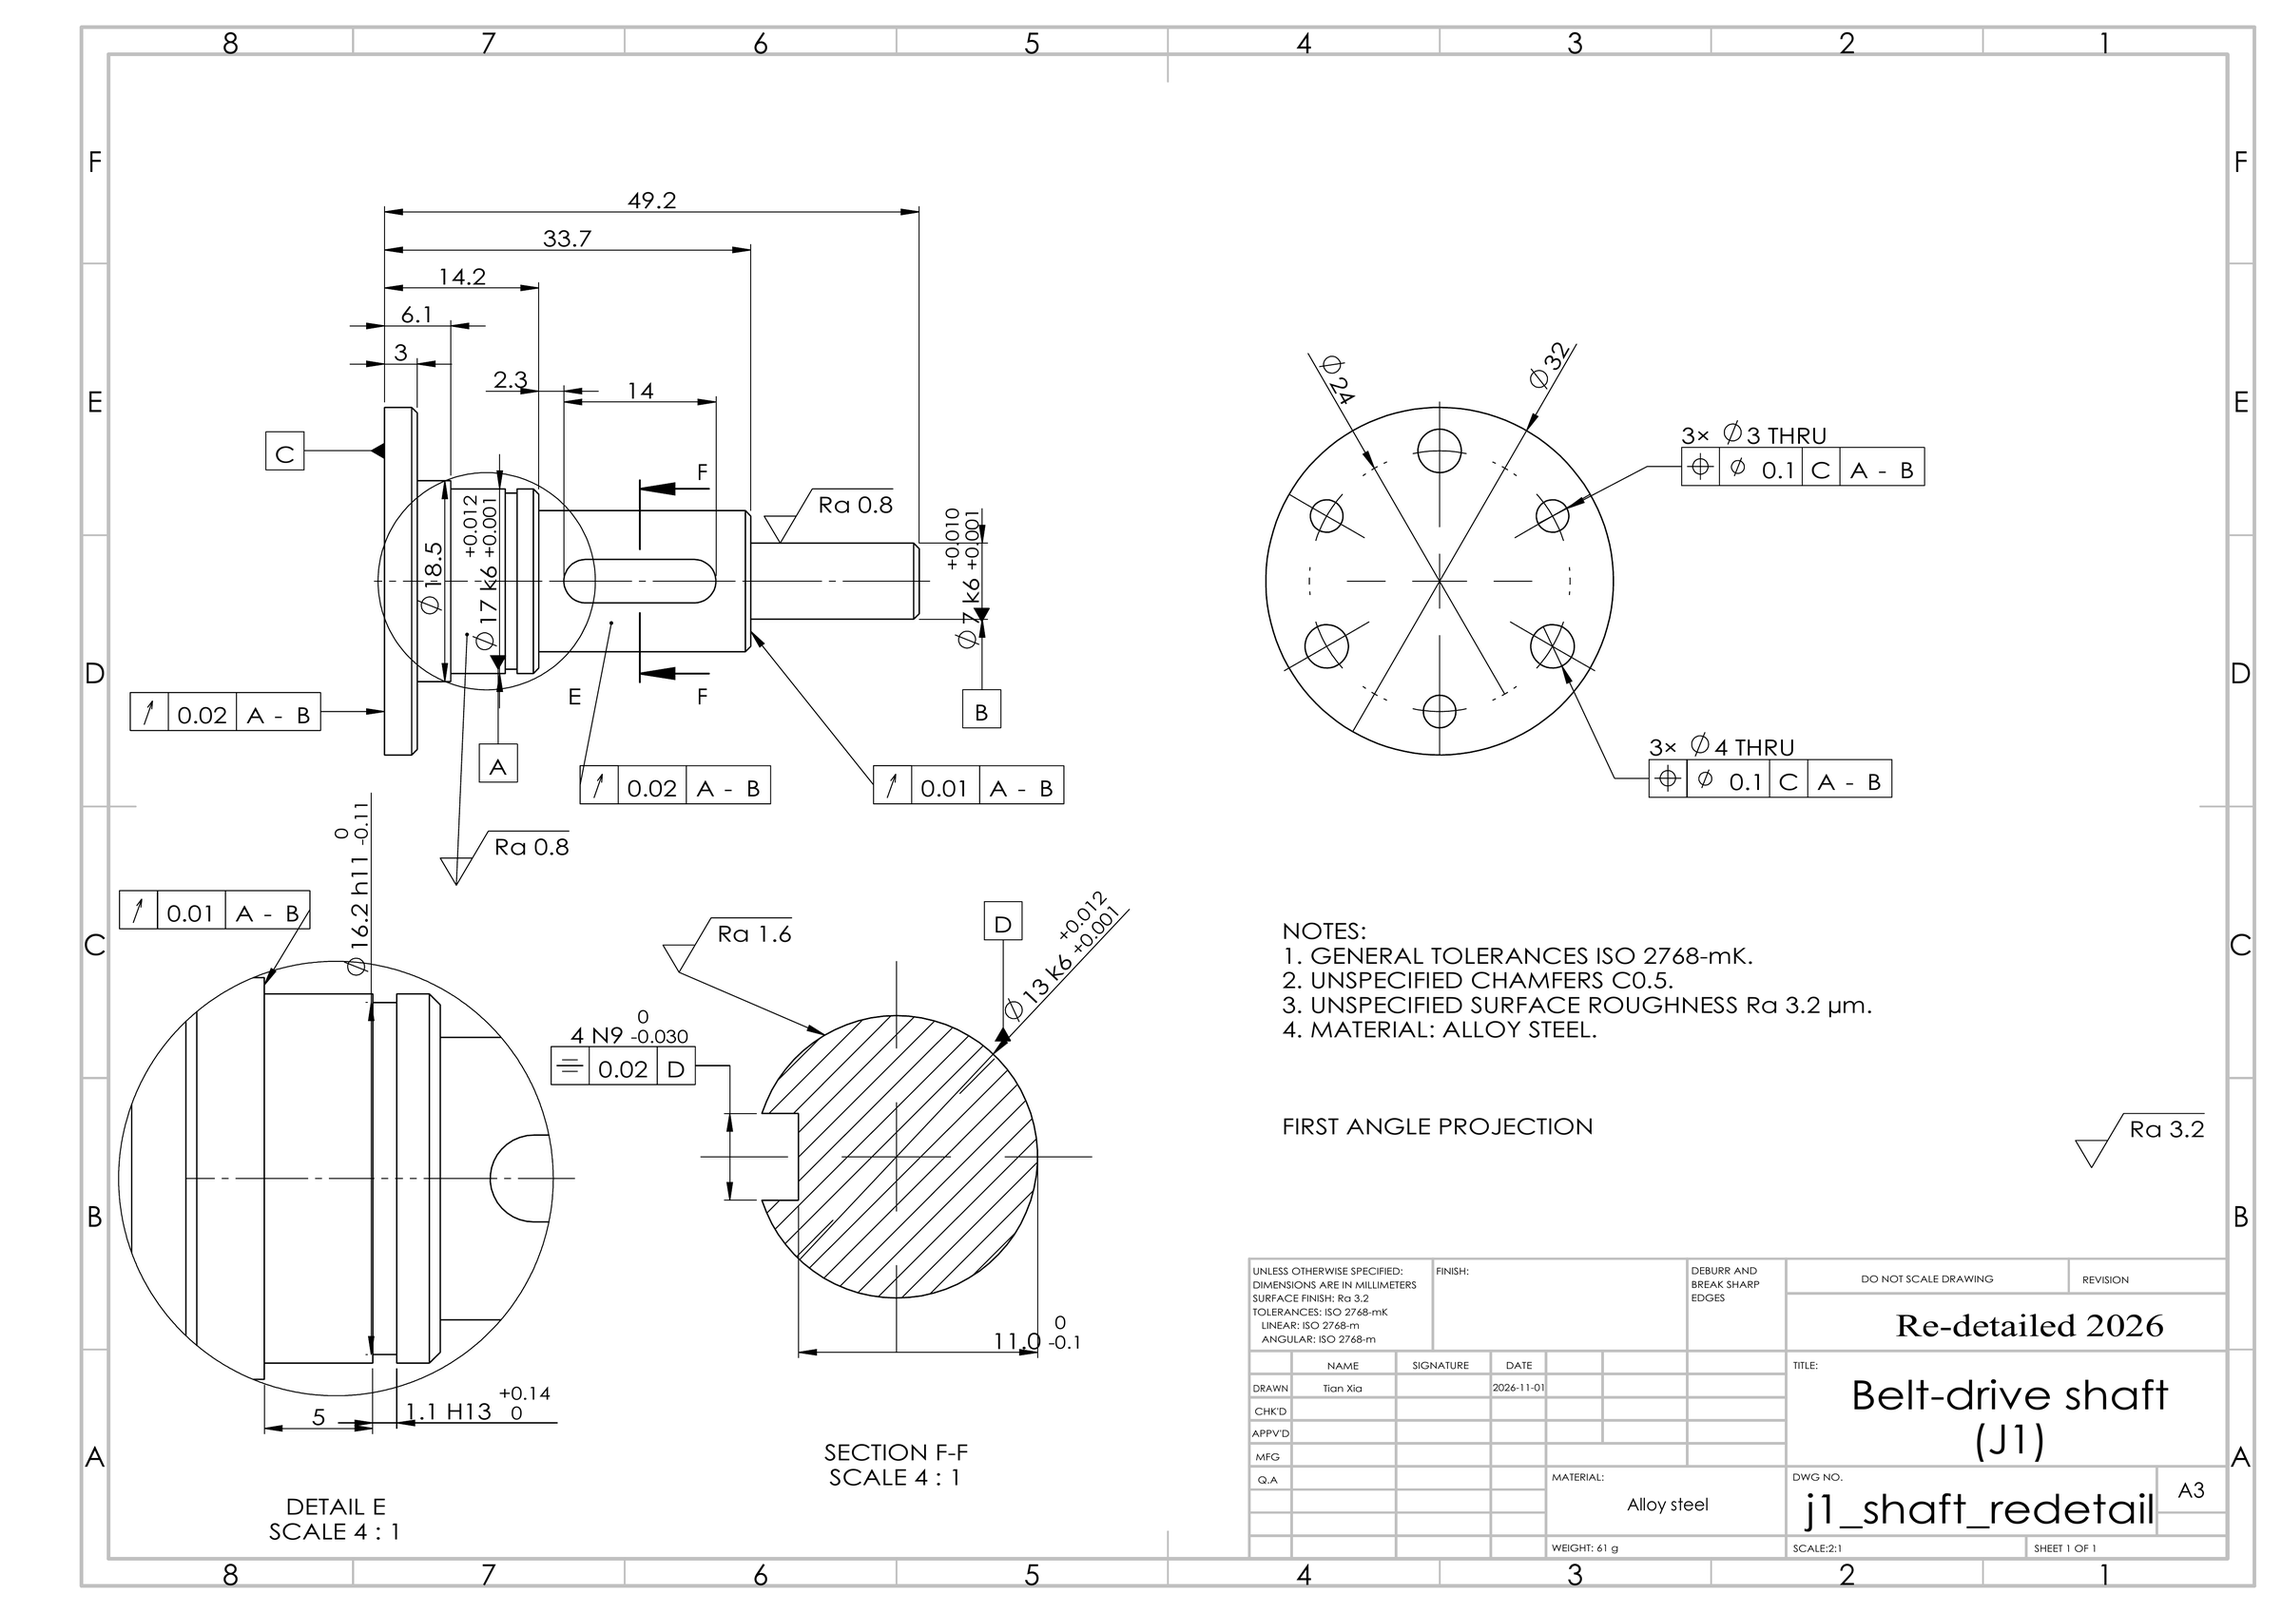
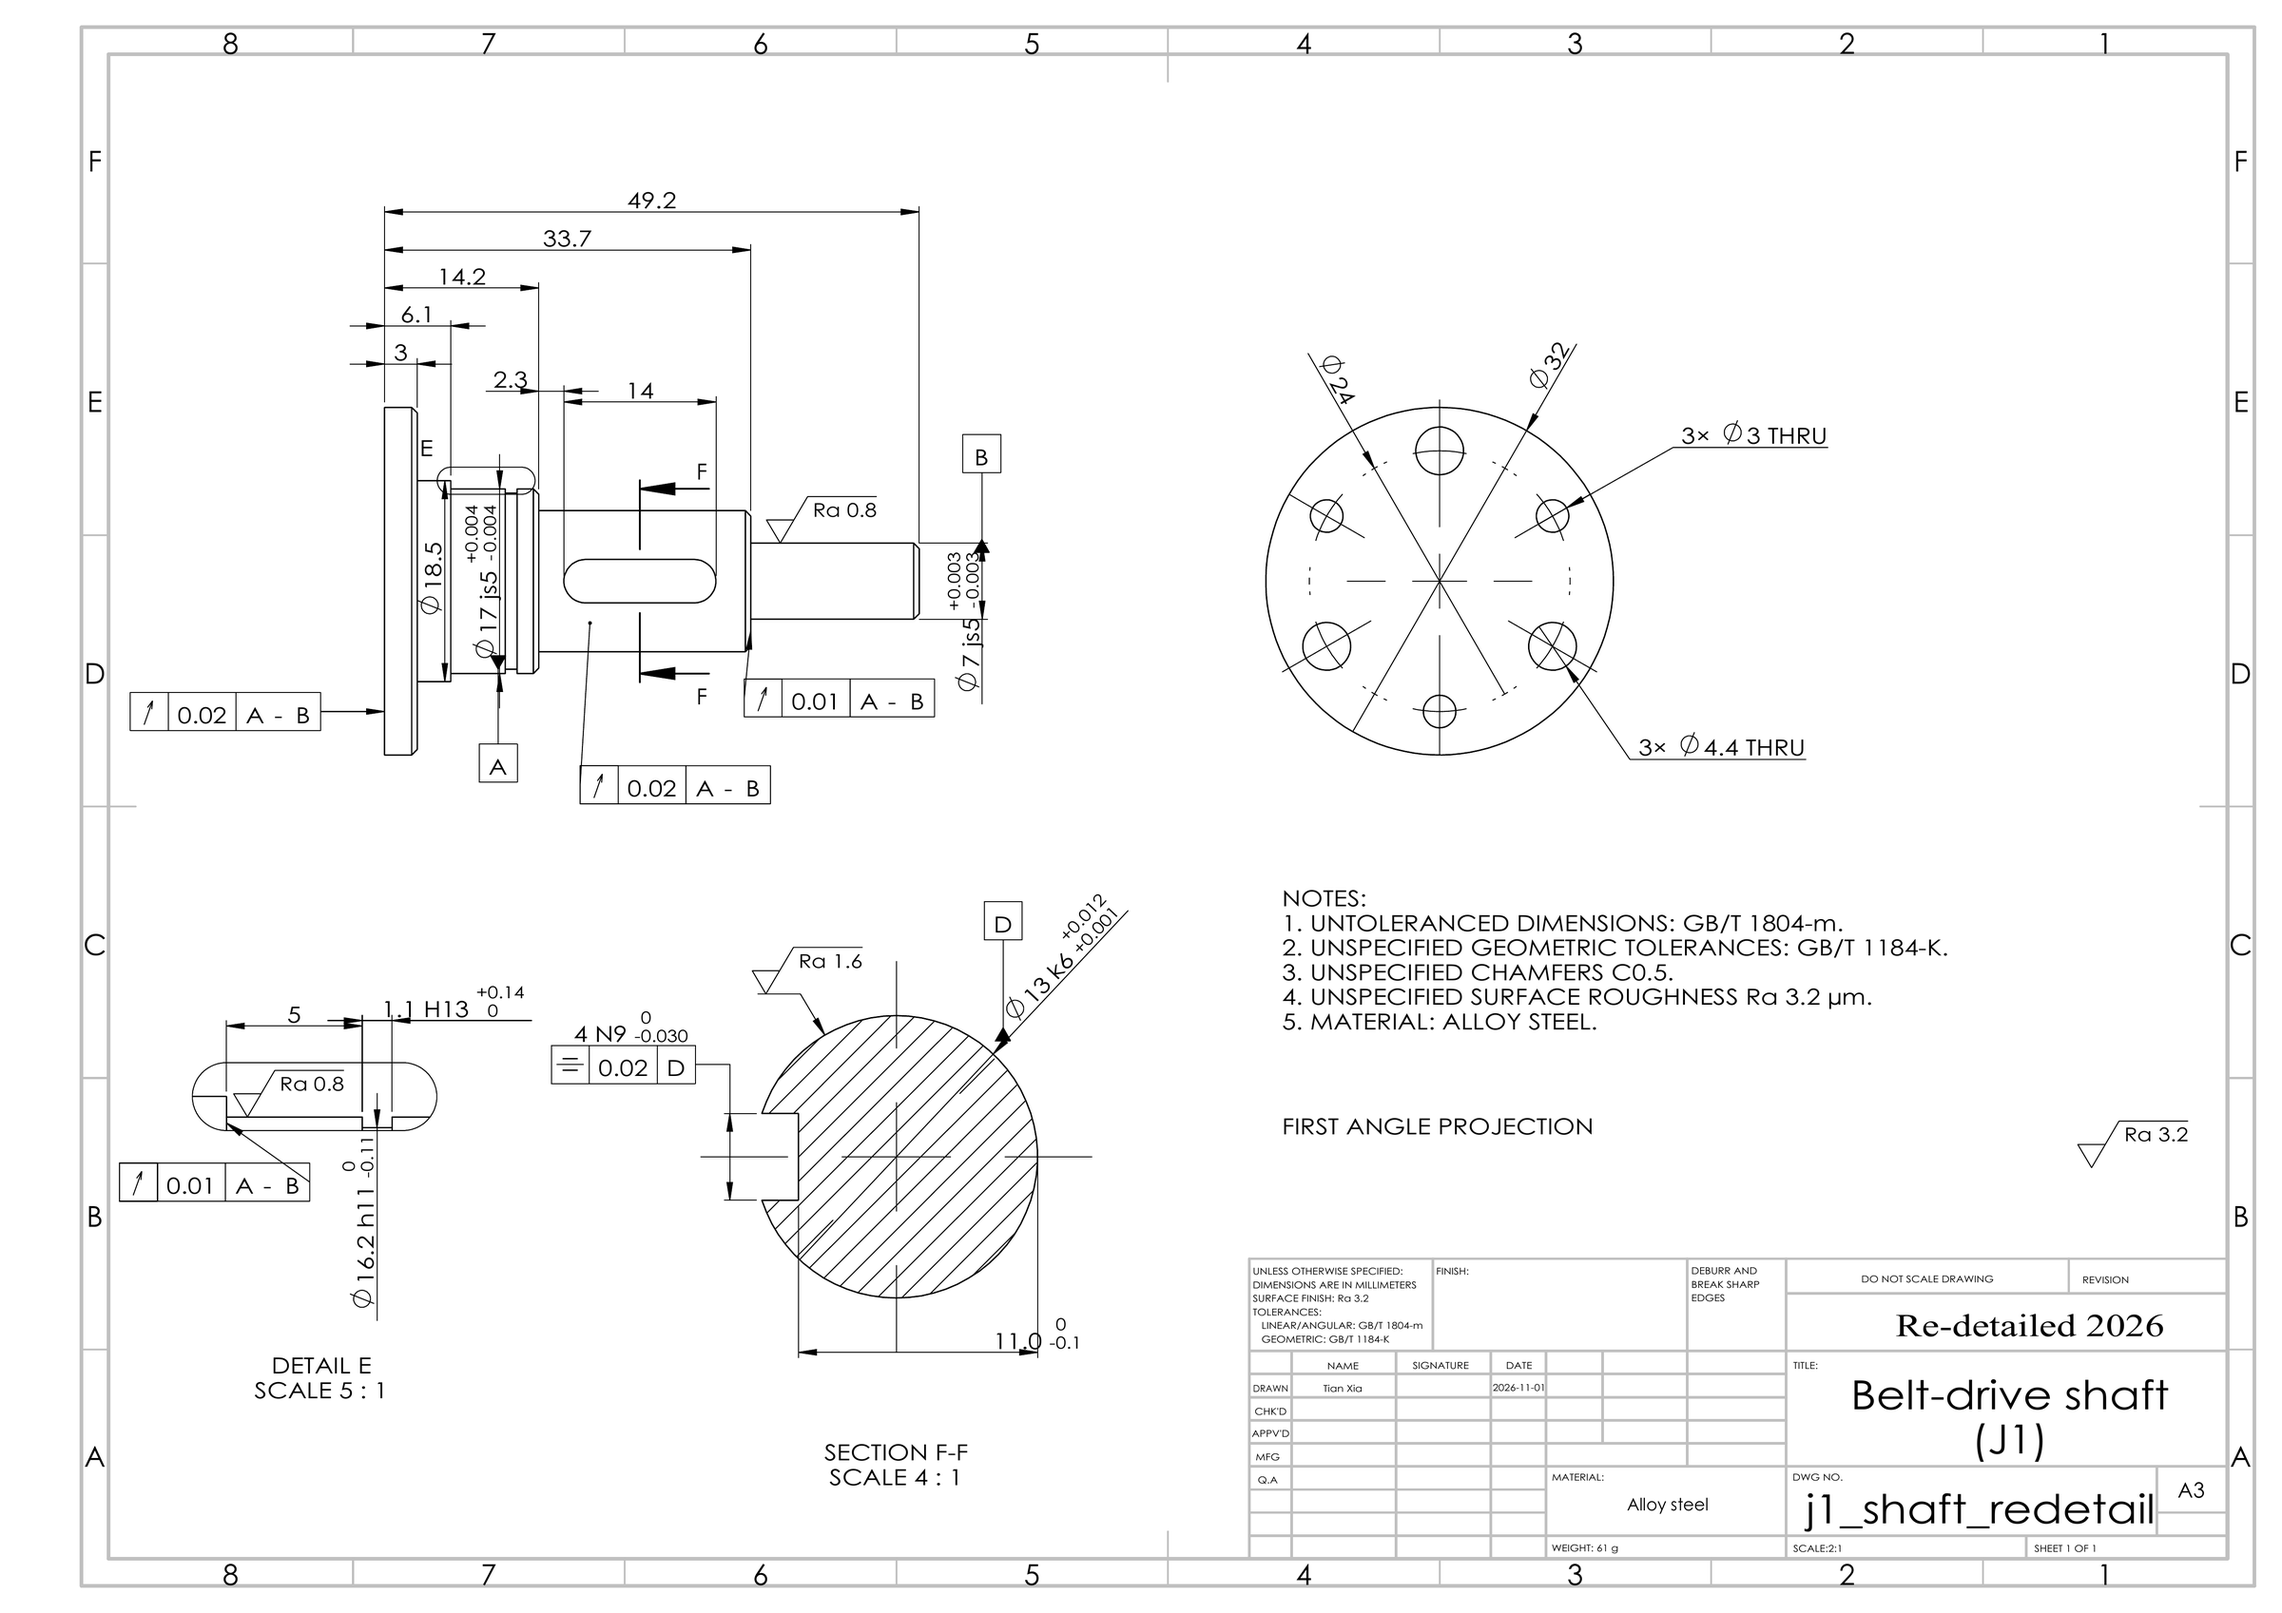
RoboMaster: update the shaft re-detail after an engineer's review
Bearing seats now js5 from the bearing-fit table, flange holes plain
Ø4.4/Ø3 bolt clearance holes without position frames, a 5:1 partial
enlargement of the circlip groove, roughness symbols on the contours, and
GB/T 1804-m / 1184-K general tolerances.

diff --git a/robomaster.html b/robomaster.html
@@ -182,8 +182,8 @@
     </div>
 
     <figure class="paper" style="margin-top:1.8rem">
-      <img src="assets/robomaster/shaft_redetail.png?v=1788221892" width="2400" height="1697" loading="lazy"
-           alt="A3 detail drawing of the same belt-drive shaft, re-detailed with tolerances: a main view with lengths from the flange face, datums A and B on the two bearing seats, k6 fits, runout frames to A-B, a keyseat section at 4:1 with a 4 N9 width and symmetry tolerance, a circlip-groove detail at 4:1, and a flange end view with six holes on a 24 mm pitch circle.">
+      <img src="assets/robomaster/shaft_redetail.png?v=1788221893" width="2400" height="1697" loading="lazy"
+           alt="A3 detail drawing of the same belt-drive shaft, re-detailed with tolerances: a main view with lengths from the flange face, datums A and B on the two bearing seats with js5 fits, runout frames to A-B, a keyseat section at 4:1 with a 4 N9 width and symmetry tolerance, a 5:1 detail of the circlip groove, and a flange end view with six bolt holes on a 24 mm pitch circle.">
       <figcaption>
         <b>The same shaft, re-detailed in 2026</b> from my 2024 CAD, with fits, datums and
         geometric tolerances.
